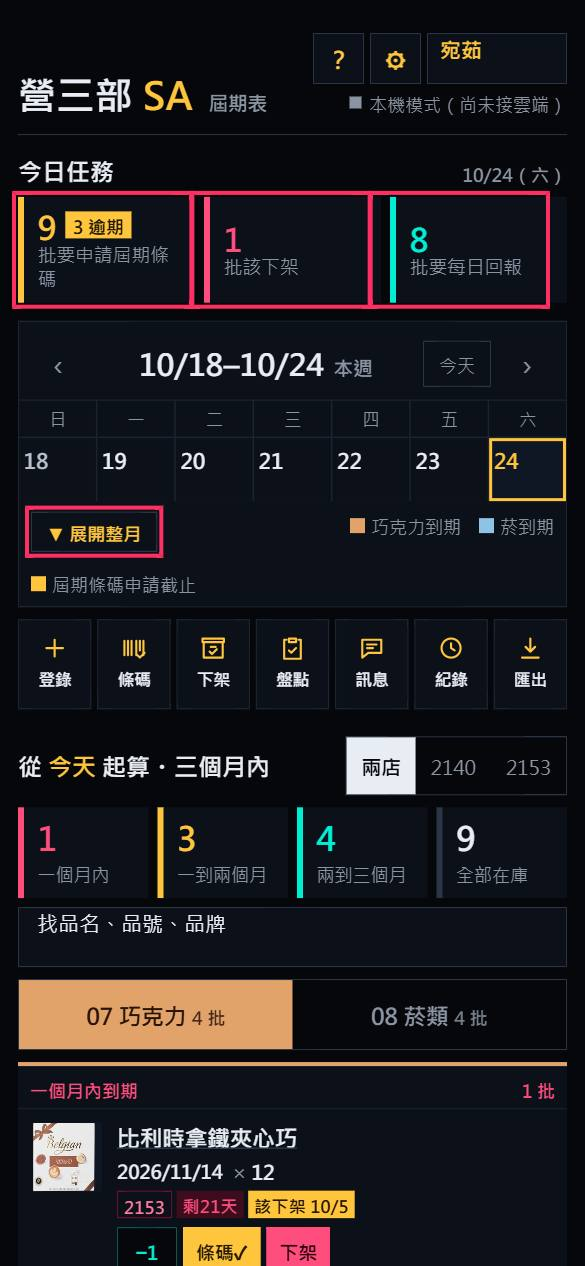
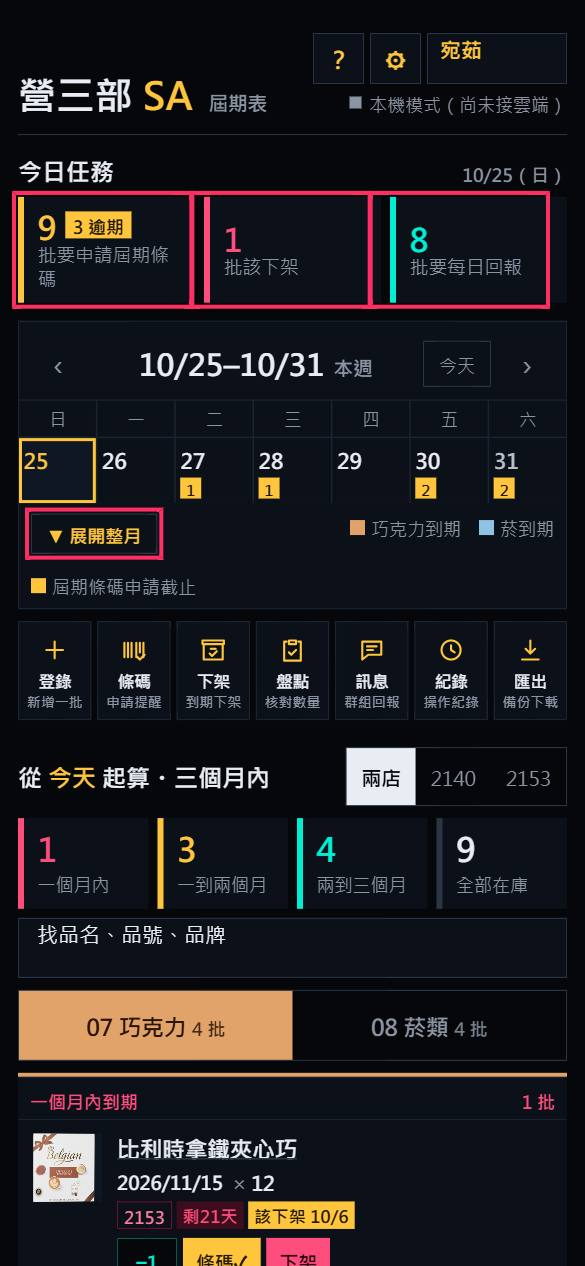
v9: 功能鍵加說明小字、登錄/盤點面板說明、截圖重拍

diff --git a/index.html b/index.html
@@ -352,6 +352,10 @@ header{position:sticky;top:0;z-index:10;background:var(--ground);padding-top:8px
 .admbar button{margin-left:auto;border:1px solid var(--edge);padding:6px 12px;color:var(--ink);font-weight:900}
 .lgn select,.lgn input{width:100%;height:46px;background:var(--ground);border:1px solid var(--edge);color:var(--ink);padding:0 10px;font-size:16px;margin-bottom:8px}
 .shimg{width:100%;margin-top:8px;border:1px solid var(--gold);color:var(--gold);height:46px;font-weight:900}
+.tb small{display:block;font-size:9.5px;font-weight:700;color:var(--faint);margin-top:-2px;letter-spacing:-.2px;white-space:nowrap}
+.tb[aria-pressed="true"] small{color:#5a4100}
+.whatis{border:1px solid var(--gold);padding:8px 10px;margin:-2px 0 10px;font-size:12.5px;line-height:1.5;color:var(--ink)}
+.whatis b{color:var(--gold)}
 </style>
 </head>
 <body>
@@ -373,13 +377,13 @@ header{position:sticky;top:0;z-index:10;background:var(--ground);padding-top:8px
   </section>
 
   <div class="tools">
-    <button class="tb" id="tAdd" data-k="add"><svg viewBox="0 0 24 24"><path d="M12 5v14M5 12h14"/></svg>登錄</button>
-    <button class="tb" id="tApply" data-k="apply"><svg viewBox="0 0 24 24"><path d="M4 6v12M7 6v12M10 6v12M14 6v12M17 6v8M20 6v12"/><path d="m15 18 2 2 4-4"/></svg>條碼</button>
-    <button class="tb" id="tPull" data-k="pull"><svg viewBox="0 0 24 24"><path d="M4 7h16v13H4zM3 4h18v3H3z"/><path d="M10 11h4"/><path d="m9 15 2 2 4-4"/></svg>下架</button>
-    <button class="tb" id="tCount" data-k="count"><svg viewBox="0 0 24 24"><path d="M9 4h6v3H9zM7 5H5v16h14V5h-2"/><path d="m9 14 2 2 4-4"/></svg>盤點</button>
-    <button class="tb" id="tMsg" data-k="msg"><svg viewBox="0 0 24 24"><path d="M4 5h16v11H9l-5 4z"/><path d="M8 9h8M8 12h5"/></svg>訊息</button>
-    <button class="tb" id="tLog" data-k="log"><svg viewBox="0 0 24 24"><circle cx="12" cy="12" r="8"/><path d="M12 8v4l3 2"/></svg>紀錄</button>
-    <button class="tb" id="tExp" data-k="exp"><svg viewBox="0 0 24 24"><path d="M12 4v11m-4-4 4 4 4-4M5 20h14"/></svg>匯出</button>
+    <button class="tb" id="tAdd" data-k="add"><svg viewBox="0 0 24 24"><path d="M12 5v14M5 12h14"/></svg>登錄<small>新增一批</small></button>
+    <button class="tb" id="tApply" data-k="apply"><svg viewBox="0 0 24 24"><path d="M4 6v12M7 6v12M10 6v12M14 6v12M17 6v8M20 6v12"/><path d="m15 18 2 2 4-4"/></svg>條碼<small>申請提醒</small></button>
+    <button class="tb" id="tPull" data-k="pull"><svg viewBox="0 0 24 24"><path d="M4 7h16v13H4zM3 4h18v3H3z"/><path d="M10 11h4"/><path d="m9 15 2 2 4-4"/></svg>下架<small>到期下架</small></button>
+    <button class="tb" id="tCount" data-k="count"><svg viewBox="0 0 24 24"><path d="M9 4h6v3H9zM7 5H5v16h14V5h-2"/><path d="m9 14 2 2 4-4"/></svg>盤點<small>核對數量</small></button>
+    <button class="tb" id="tMsg" data-k="msg"><svg viewBox="0 0 24 24"><path d="M4 5h16v11H9l-5 4z"/><path d="M8 9h8M8 12h5"/></svg>訊息<small>群組回報</small></button>
+    <button class="tb" id="tLog" data-k="log"><svg viewBox="0 0 24 24"><circle cx="12" cy="12" r="8"/><path d="M12 8v4l3 2"/></svg>紀錄<small>操作紀錄</small></button>
+    <button class="tb" id="tExp" data-k="exp"><svg viewBox="0 0 24 24"><path d="M12 4v11m-4-4 4 4 4-4M5 20h14"/></svg>匯出<small>備份下載</small></button>
   </div>
   <div class="panel" id="panel"></div>
 
@@ -631,6 +635,7 @@ function parseExp(s,cat){
 function addSheet(pre){
   let cat=pre&&pre.cat||"07",picked=pre&&pre.code?CATMAP[pre.code]:null,newImg="";
   if(!openPanel("add",`<h4>登錄效期<button class="x" aria-label="關閉">×</button></h4>
+  <p class="whatis"><b>登錄＝新增一批。</b>清單裡「沒有」的效期才用登錄（進新貨、發現新效期）。已經有的批只是數量不對，請用「盤點」。</p>
   <div class="f"><label>店別</label>${storeSeg("ast",pre&&pre.store||lastStore)}</div>
   <div class="f"><label>大類</label><div class="cat2"><button class="c" data-cat="07">07 巧克力</button><button class="s" data-cat="08">08 菸類</button></div></div>
   <div class="f"><label>品名</label><input id="aname" autocomplete="off" placeholder="打品名、品牌或品號"><div class="pick" id="pick"></div><div id="chosen"></div><div class="rec" id="arec"></div></div>
@@ -789,7 +794,7 @@ $("#tApply").onclick=()=>applyPanel(false,false);
 
 /* ---------- count / log / export ---------- */
 $("#tAdd").onclick=()=>addSheet();
-$("#tCount").onclick=()=>{if(!openPanel("count",`<h4>盤點<button class="x" aria-label="關閉">×</button></h4><p class="hint" style="margin:-4px 0 10px">上方每一批都多了數量格，輸入實點後回到這裡存檔。有改的格子會變黃。</p><p id="ctext" style="font-weight:900;margin-bottom:10px">尚未修改任何數量</p><p class="byl">操作人：<b class="bylv">${esc(lastBy)||"未選"}</b><small>右上角可換人</small></p><button class="go" id="csave">存盤點</button><button class="ghost" id="ccancel">取消盤點</button>`,false,true))return;counting=true;draft={};mode="all";bucket=null;$("#csave").onclick=saveCount;$("#ccancel").onclick=closePanel;render();jumpTo($("#panel"))};
+$("#tCount").onclick=()=>{if(!openPanel("count",`<h4>盤點<button class="x" aria-label="關閉">×</button></h4><p class="whatis"><b>盤點＝核對數量，不會新增批次。</b>只改清單上「已經有」的批；點到清單沒有的效期，存完再用「登錄」補登。</p><p class="hint" style="margin:-4px 0 10px">上方每一批都多了數量格，輸入實點後回到這裡存檔。有改的格子會變黃。</p><p id="ctext" style="font-weight:900;margin-bottom:10px">尚未修改任何數量</p><p class="byl">操作人：<b class="bylv">${esc(lastBy)||"未選"}</b><small>右上角可換人</small></p><button class="go" id="csave">存盤點</button><button class="ghost" id="ccancel">取消盤點</button>`,false,true))return;counting=true;draft={};mode="all";bucket=null;$("#csave").onclick=saveCount;$("#ccancel").onclick=closePanel;render();jumpTo($("#panel"))};
 async function saveCount(){
   const by=lastBy;if(!by)return needWho();remember(by);
   const ch=Object.keys(draft).map(k=>[lots.find(x=>x.id===k),parseInt(draft[k],10)]).filter(([l,v])=>l&&v>=0&&v!==l.qty);
@@ -949,7 +954,7 @@ const GUIDE=[
  {t:"開始之前",s:"先認識畫面，紅框就是要看、要按的地方",f:[
   ["右上角選「操作人」",`點 ${K("操作人？")} 選你自己，選一次就會記住。名單沒有你，請管理者到 ${K("⚙")} 新增。`,0,"g01"],
   ["看「今日任務」和行事曆",`最上面三格是今天要做的：金＝申請屆期條碼、紅＝該下架、綠＝每日回報，點下去直接處理。行事曆平常收成一週，按 ${K("▼ 展開整月")} 看整個月；小數字＝那天到期的批數。`,0,"g02"],
-  ["下方 7 個功能鍵",`${K("登錄")}${K("條碼")}${K("下架")}${K("盤點")}${K("訊息")}${K("紀錄")}${K("匯出")}，點了會在功能列下方展開。`,0,"g03"],
+  ["下方 7 個功能鍵",`${K("登錄")}${K("條碼")}${K("下架")}${K("盤點")}${K("訊息")}${K("紀錄")}${K("匯出")}，每個鍵下面的小字就是用途；點了會在功能列下方展開。`,0,"g03"],
   ["看清單",`手機上用分頁切換 ${K("07 巧克力")}／${K("08 菸類")}。每批下面有快速鍵：${K("−1","t")} 賣出、${K("條碼✓")} 已申請、${K("下架","r")}。點品名可以修改。`,1,"g12"]]},
  {t:"登錄還是盤點？",s:"先問自己：這個效期，清單裡有沒有？",f:[
   ["清單裡「沒有」這個效期 → 用「登錄」",`登錄＝${K("新增一批")}。進新貨、補貨、在架上發現清單沒有的效期，都用登錄。同一個商品、不同效期要分開登，各算一批。`,0,"g04"],
